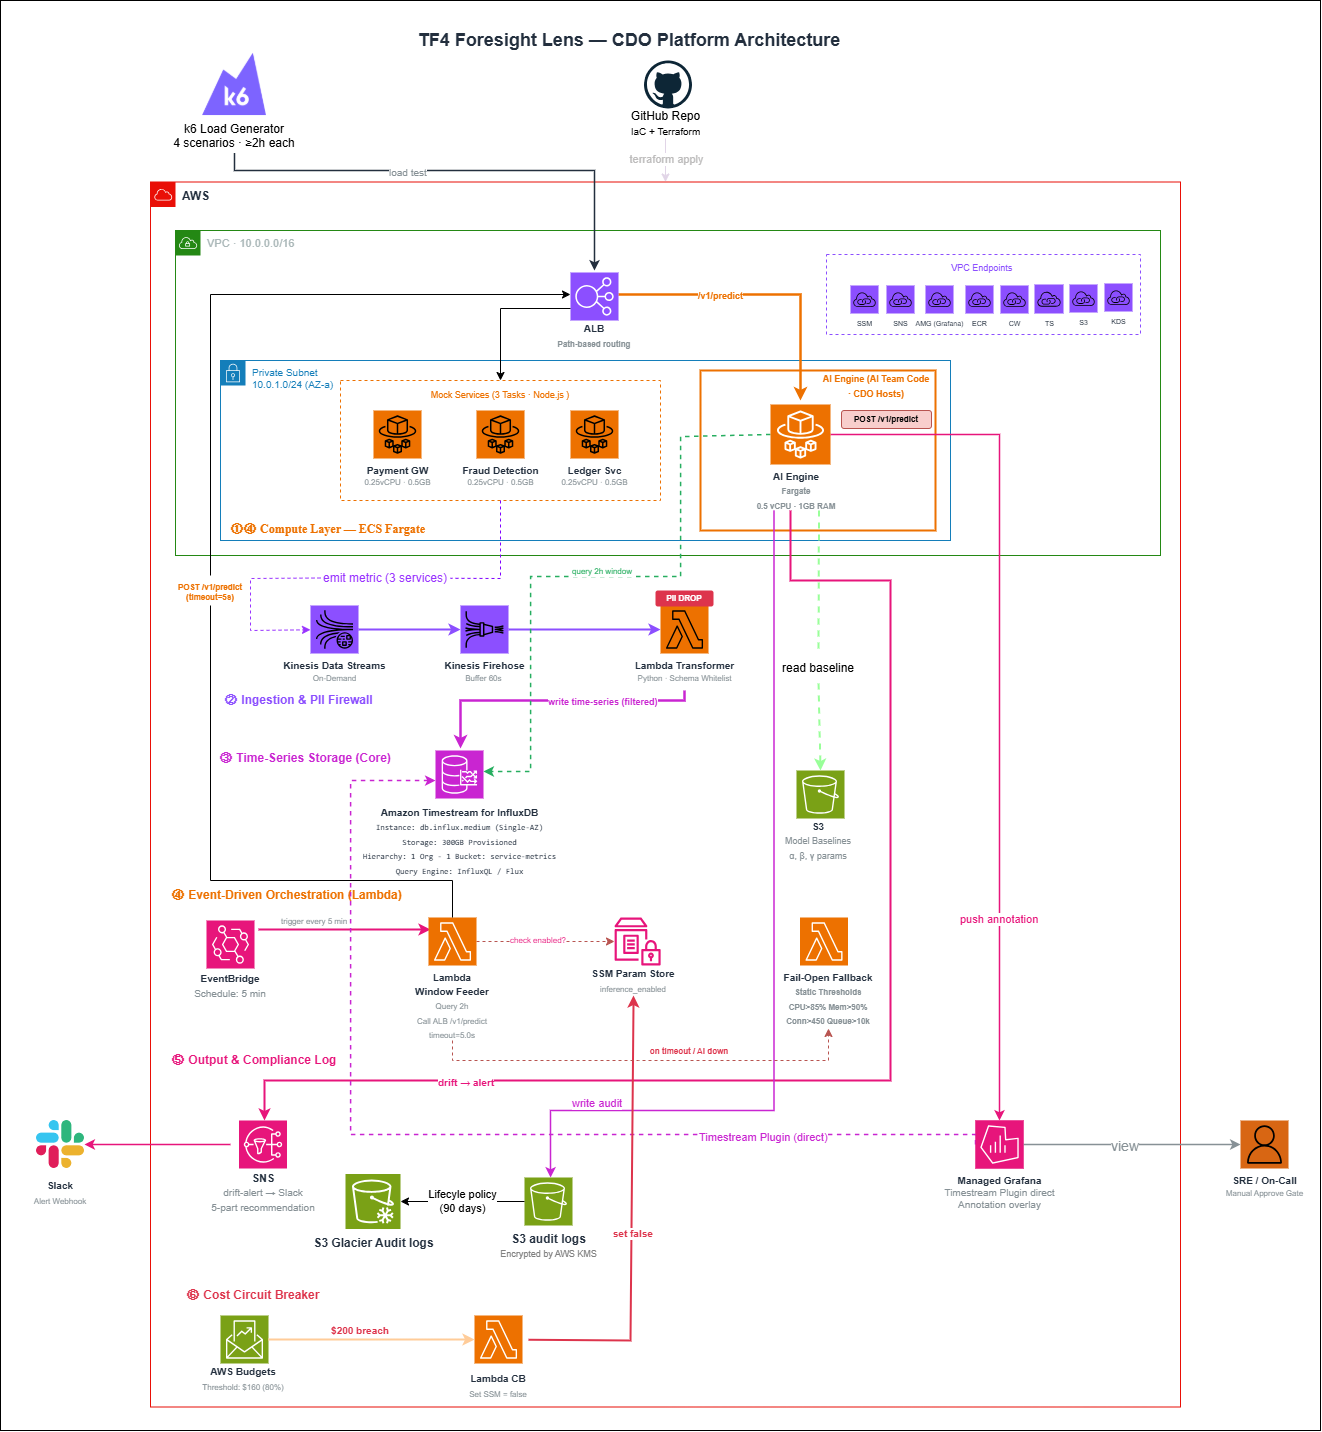
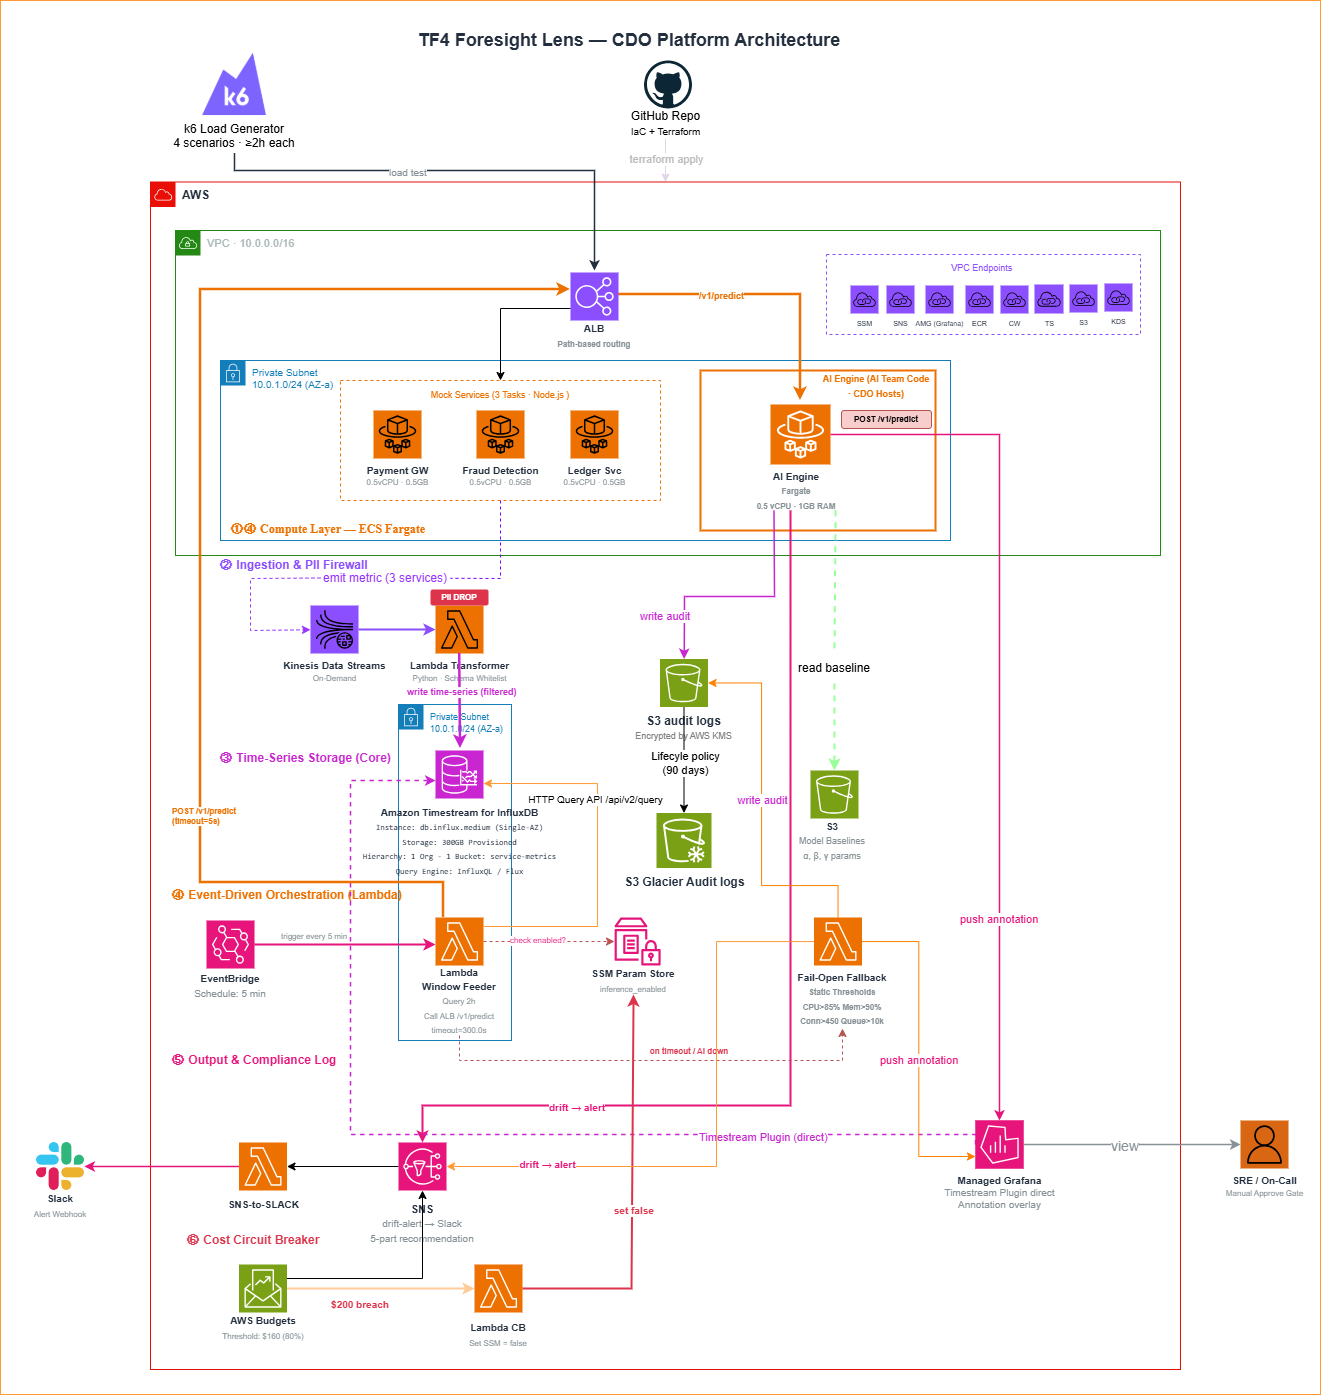
Update file 02

diff --git a/xbrain-learners/capstone/tf-4/cdo-07/docs/02_infra_design.md b/xbrain-learners/capstone/tf-4/cdo-07/docs/02_infra_design.md
@@ -4,26 +4,25 @@
 
 ![CDO7 Architecture](images/CDO7.drawio.png)
 
-*Caption: Hệ thống Foresight Lens predictive monitoring với telemetry pipeline từ mock services qua Kinesis Data Streams (On-Demand) đến Timestream for InfluxDB, AI inference engine chạy trên ECS Fargate, và dashboard tích hợp Grafana annotations. Giao tiếp nội bộ hoàn toàn qua VPC Endpoints, đảm bảo chuẩn Zero-Trust.*
+*Caption: Hệ thống Foresight Lens predictive monitoring với telemetry pipeline từ mock services (Node.js, 3 Tasks) qua Kinesis Data Streams (On-Demand) → Lambda Transformer (PII Drop) → Amazon Timestream for InfluxDB → Lambda Window Feeder (query 2h, call ALB `/v1/predict`, timeout 300s) → AI Engine (ECS Fargate 0.5 vCPU / 1GB RAM). Fail-Open Fallback kích hoạt khi AI timeout/down. Drift alert bắn qua SNS → SNS-to-Slack Lambda → Slack. Giao tiếp nội bộ hoàn toàn qua 8 VPC Endpoints (SSM, SNS, AMG, ECR, CW, TS, S3, KDS), đảm bảo chuẩn Zero-Trust.*
 
 ## 2. Component table
 
 | Component | AWS Service | Reason | Cost note |
 |---|---|---|---|
-| **Compute** | ECS Fargate | AI inference engine + 3 mock services, 900 vCPU-hour + 1,800 GB-hour | $44.43 |
-| **API entry** | Application Load Balancer | Định tuyến requests, health checks, 1 ALB (Internal) + 1 LCU average | $21.96 |
-| **Database** | Amazon Timestream for InfluxDB | db.influx.medium Single-AZ, 300GB provisioned storage, time-series optimized | $116.40 |
-| **Storage** | S3 Standard + Glacier | ML baselines, audit logs (**KMS Encrypted at rest**), 10GB Std + 5GB Glacier | $0.79 |
-| **Event Streaming** | Kinesis Data Streams (On-Demand) | Stream processing, tự động co giãn shard, Noisy-neighbor mitigation | ~$28.50 |
-| **Stream Delivery** | Kinesis Data Firehose | Delivery pipeline qua HTTP Endpoint, tích hợp Lambda PII Drop | $7.52 |
-| **Observability** | Amazon Managed Grafana | Dashboard visualization, 1 active editor/admin user | $9.00 |
-| **Functions** | Lambda + EventBridge | Window feeder (có Forward-fill logic), transformer, circuit breaker | $4.50 |
-| **Container Registry** | Amazon ECR | Container image storage cho ECS services, 5GB storage | $0.50 |
+| **Compute** | ECS Fargate | AI Engine (0.5 vCPU / 1GB RAM) + 3 Mock Services (mỗi service 0.5 vCPU / 0.5GB), Path-based routing qua Internal ALB | $44.43 |
+| **API entry** | Application Load Balancer | Path-based routing (`/v1/predict` → AI Engine, `/*` → Mock Services), health checks, 1 ALB (Internal) | $21.96 |
+| **Database** | Amazon Timestream for InfluxDB | db.influx.medium Single-AZ, 300GB provisioned storage, 1 Org · 1 Bucket `service-metrics`, query qua InfluxQL/Flux | $116.40 |
+| **Storage** | S3 Standard + S3 Glacier | ML baselines (α, β, γ params), audit logs (**KMS Encrypted at rest**), Lifecycle policy 90 days | $0.79 |
+| **Event Streaming** | Kinesis Data Streams (On-Demand) | Ingestion layer + PII Firewall, emit metric từ 3 services → Lambda Transformer, Noisy-neighbor mitigation qua `service_id` partition key | ~$28.50 |
+| **Observability** | Amazon Managed Grafana | Timestream Plugin direct query, Annotation overlay từ AI predictions, 1 active editor/admin user | $9.00 |
+| **Functions** | Lambda + EventBridge | Window Feeder (query 2h InfluxDB, call ALB `/v1/predict`, timeout 300s) + Transformer (Schema Whitelist, PII Drop) + Circuit Breaker (set SSM = false) | $4.50 |
+| **Container Registry** | Amazon ECR | Container image storage cho ECS services (AI Engine + 3 mocks), 5GB storage | $0.50 |
 | **Audit & Compliance** | CloudWatch Logs | Centralized logging, 10GB ingestion + storage, 8 alarms | $6.10 |
-| **Networking** | VPC Endpoints (8 endpoints) | 7 Interface (ECR, CW, TS, KDS, SSM, SNS, AMG) + 1 S3 Gateway | $50.40 |
-| **Notifications** | SNS | Bắn Drift alert (5-part recommendation block) tới Slack webhook | $0.01 |
-| **Cost Control** | AWS Budgets + Parameter Store | Budget thresholds, inference control flags | $0.00 |
-| **Total (Run-rate 1 tháng)** | | | **~$290.11** |
+| **Networking** | VPC Endpoints (8 endpoints) | 7 Interface (SSM, SNS, AMG, ECR, CW, TS, KDS) + 1 S3 Gateway — Zero-Trust, không cần IGW/NAT | $50.40 |
+| **Notifications** | SNS → SNS-to-Slack Lambda | Drift alert (5-part recommendation block) → Slack Alert Webhook | $0.01 |
+| **Cost Control** | AWS Budgets + SSM Parameter Store | Budget threshold $165 (80%), Lambda CB tự ngắt SSM flag `inference_enabled` khi $200 breach | $0.00 |
+| **Total (Run-rate 1 tháng)** | | | **~$282.59** |
 
 ## 3. Differentiation angle deep-dive
 
@@ -54,8 +53,8 @@ Một kiến trúc chuẩn Enterprise luôn đi kèm sự đánh đổi:
 
 ### 4.1 Tenant model
 
-- **Tenant ID format**: `service_id` (payment-gateway, ledger-service, fraud-detection)
-- **Header**: `service_id`, `tenant_id`, `metric_type` mandatory trong Kinesis payload
+- **Tenant ID format**: `tenant_id` = service name (`payment-gw`, `ledger-svc`, `fraud-detection`) — bắt buộc trong header `x-tenant-id` và Kinesis payload
+- **Payload fields bắt buộc**: `ts`, `tenant_id`, `service_id`, `metric_type`, `value` — theo Telemetry Contract §Schema
 - **Subscription tiers**: All 3 services Tier-1 (per-service baseline models, 5-min prediction intervals)
 
 ### 4.2 Isolation pattern
@@ -102,19 +101,21 @@ Một kiến trúc chuẩn Enterprise luôn đi kèm sự đánh đổi:
 
 ## 6. Scaling strategy
 
-- **Vertical**: ECS auto-scaling CPU > 70% trong 2 phút → khởi chạy task bổ sung.
-- **Horizontal**: Kinesis On-Demand tự động split Shard khi phát hiện Ingress Throughput tăng đột biến.
-- **Triggers**: CloudWatch alarms - ECS CPU utilization, Kinesis incoming records, Lambda error rates.
+- **Vertical**: ECS auto-scaling CPU > 70% trong 2 phút → khởi chạy task bổ sung (AI Engine scale độc lập với Mock Services).
+- **Horizontal**: Kinesis On-Demand tự động split Shard khi phát hiện Ingress Throughput tăng đột biến, không cần pre-provision.
+- **Fail-Open Trigger**: Nếu AI Engine timeout > 5s hoặc down, Lambda Feeder tự chuyển sang Static Threshold rules: CPU > 30%, Mem > 50%, Conn > 450, Queue > 10k.
+- **Cost Circuit Breaker**: AWS Budgets theo dõi threshold $165 (80% của $200 cap). Khi chạm $200 breach, Lambda CB tự set SSM flag `inference_enabled = false`, tắt toàn bộ inference ngay lập tức.
 
 ## 7. Failure modes + recovery
 
 | Failure | Detection | Recovery | RTO | RPO |
 |---|---|---|---|---|
 | AI Engine crash | ALB health check fail 3 lần | ECS auto-restart task mới | <30s | 0 |
-| AI timeout > 5.0s | Request timeout exception | **Bẻ lái Fail-open sang Rule-based (Lambda)** | **<1s** | 0 |
-| Metric thủng/Rớt mạng | Lambda Feeder check mảng | **Tự động Forward-fill lấp lỗ hổng (Imputation)** | <1s | 0 |
-| Timestream outage | Firehose delivery errors | Kinesis 24h buffer retention | Auto | 0 |
-| Budget chạm $180 | AWS Budgets alert | Lambda Circuit Breaker tự ngắt SSM Flag | <5s | 0 |
+| AI timeout > 5.0s | Lambda Feeder request timeout | **Fail-Open sang Static Rules: CPU>85%, Mem>90%, Conn>450, Queue>10k** | **<1s** | 0 |
+| Metric thủng/Rớt mạng | Lambda Feeder check mảng trống | **Tự động Forward-fill lấp lỗ hổng (Imputation)** | <1s | 0 |
+| Kinesis/Timestream outage | Lambda delivery errors | Kinesis 24h buffer retention → retry tự động | Auto | 0 |
+| Budget chạm $165 (80%) | AWS Budgets alert | Lambda Circuit Breaker push annotation Grafana, cảnh báo Slack | <5s | 0 |
+| Budget chạm $200 (100%) | AWS Budgets alert | Lambda CB set SSM `inference_enabled = false` → ngắt toàn bộ inference | <5s | 0 |
 
 ## Related documents
 